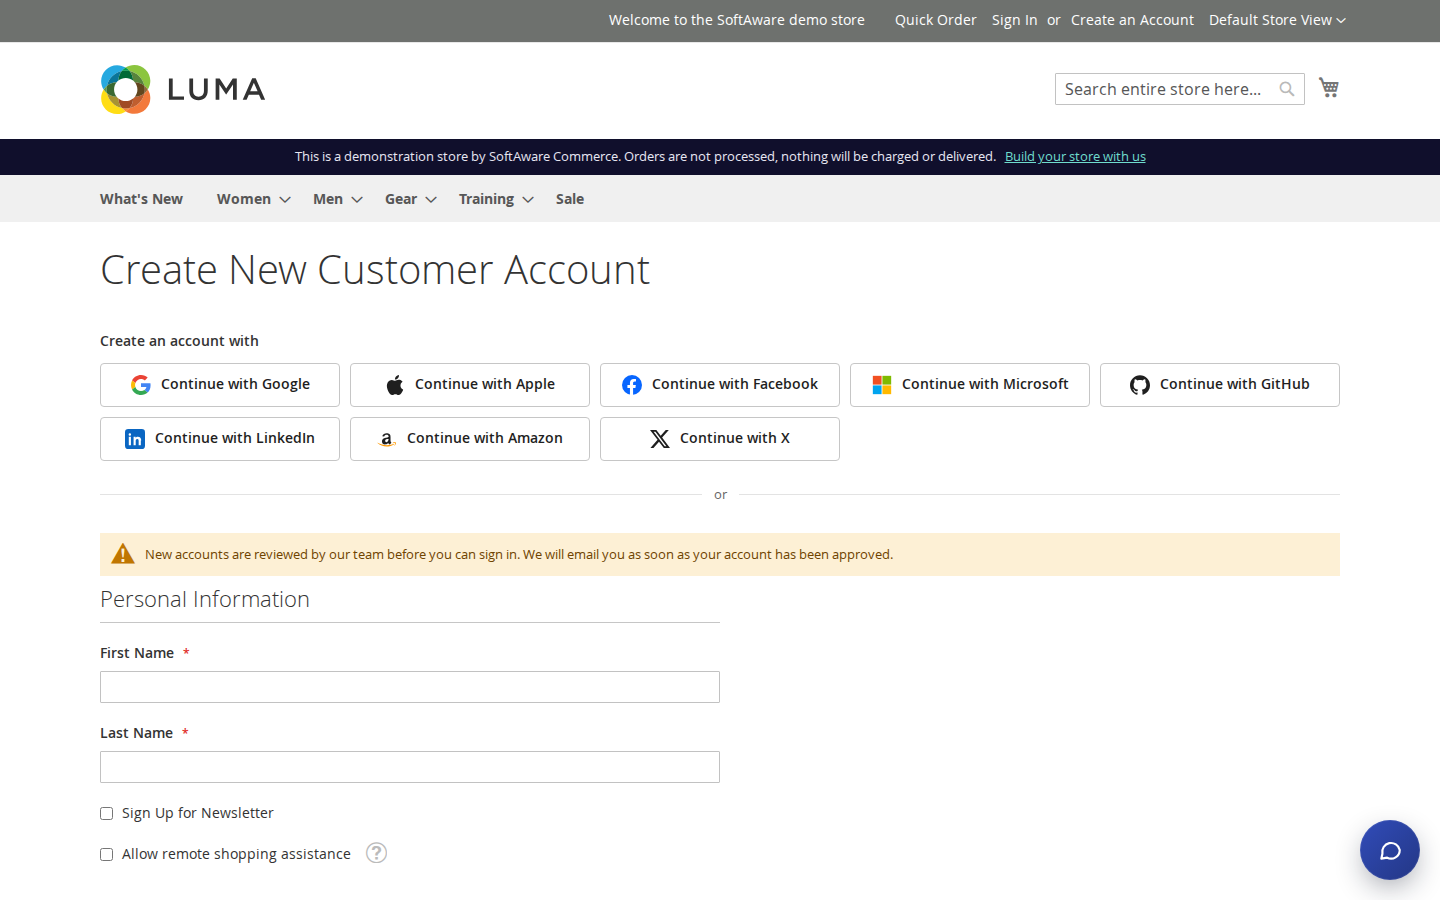
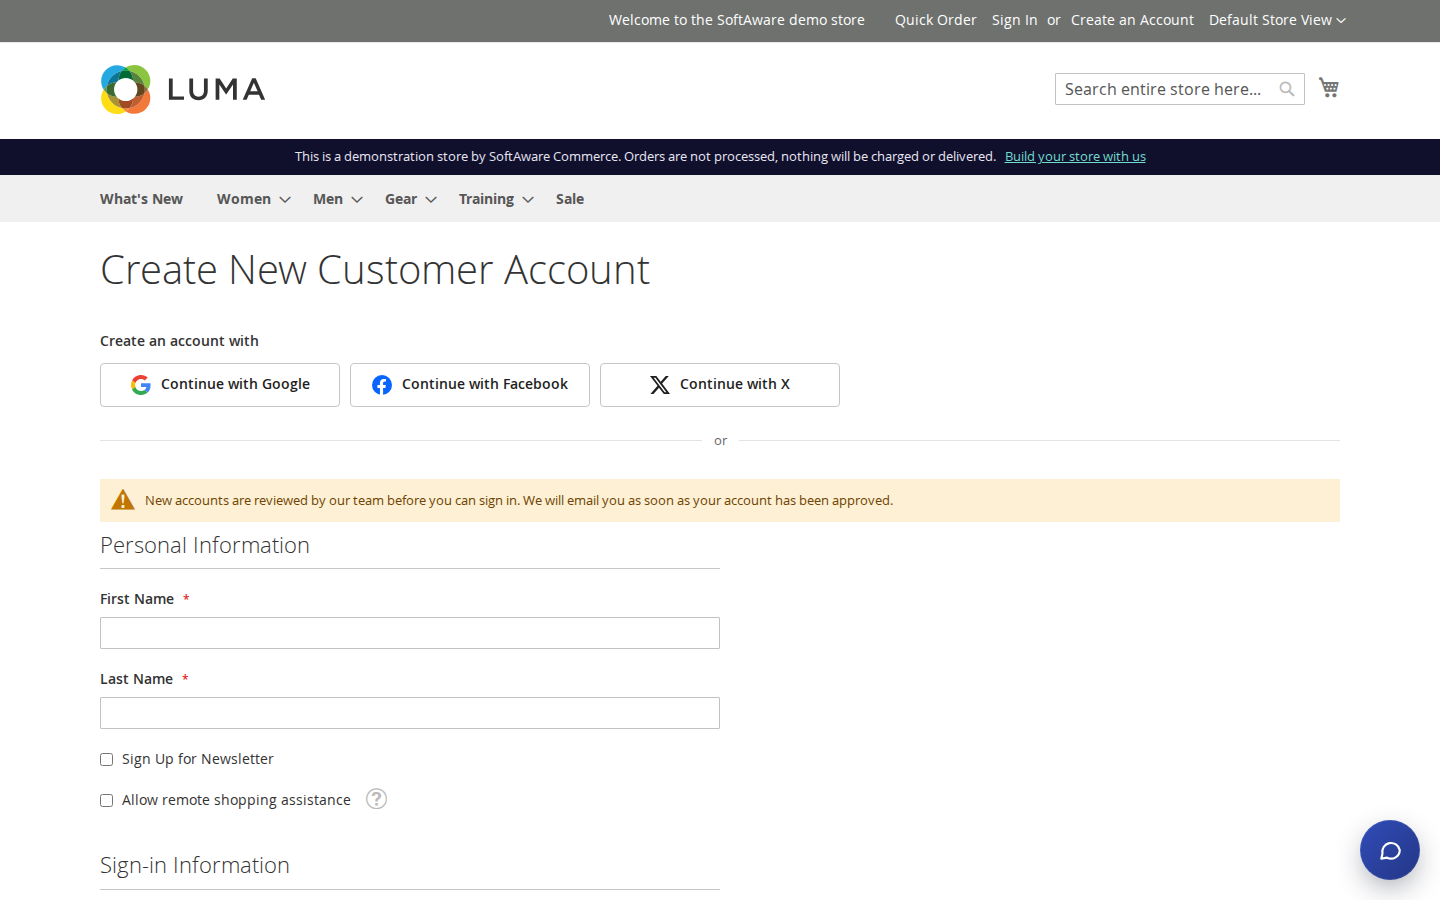
README, CHANGELOG, user guide, FAQ and screenshots for 1.3.0

diff --git a/README.md b/README.md
@@ -1,8 +1,8 @@
 # Softaware Social Login for Magento 2
 
-Lets customers sign in and register with **Google, Apple, Facebook, Microsoft, GitHub, LinkedIn, Amazon and X**.
-OAuth 2.0 and OpenID Connect are implemented directly on Magento's HTTP client and PHP's OpenSSL extension;
-no provider SDKs or JWT libraries are installed. Works with Luma-based themes and Hyvä.
+Lets customers sign in and register with **Google, Facebook and X (Twitter)**. OAuth 2.0 and OpenID Connect are
+implemented directly on Magento's HTTP client and PHP's OpenSSL extension; no provider SDKs or JWT libraries are
+installed. Works with Luma-based themes and Hyvä.
 
 Package `softaware/module-social-login`, module `Softaware_SocialLogin`.
 
@@ -18,33 +18,29 @@ Package `softaware/module-social-login`, module `Softaware_SocialLogin`.
 
 ## Features
 
-- **Providers**: Google (OpenID Connect + PKCE), Sign in with Apple (client secret JWT from the .p8 key,
-  `response_mode=form_post`), Facebook (Graph API with `appsecret_proof`), Microsoft Entra ID (v2.0, `common`
-  tenant by default, PKCE), GitHub (verified email from `/user/emails`), LinkedIn (OpenID Connect), Amazon
-  (Login with Amazon, PKCE), X / Twitter (OAuth 2.0 with PKCE). Each: enable, client ID, secret (stored
-  encrypted), button label, sort order. The exact callback URL for the selected store view is shown under each
-  provider in the configuration.
+- **Providers**: Google (OpenID Connect + PKCE), Facebook (Graph API with `appsecret_proof`), X / Twitter (OAuth 2.0
+  with PKCE). Each: enable, client ID, secret (stored encrypted), button label, sort order. The exact callback URL
+  for the selected store view is shown under each provider in the configuration.
 - **Where**: sign-in page, create-account page, Luma authentication popup ("Checkout using your account"), the
   "Sign In" link on the checkout page, the checkout email step (optional), Hyvä authentication popup, CMS widget
   **Softaware Social Login Buttons**, and a layout block (`Softaware\SocialLogin\Block\Buttons`).
 - **Look**: icon and text, or icon only; light or dark. Sign-in in a **popup window** or a **full-page redirect**.
 - **Security**
   - `state` (random, single use, stored server-side, bound to the browser by a cookie, 15-minute lifetime),
-    `nonce` (OIDC) and PKCE S256 (Google, Microsoft, GitHub, Amazon, X).
-  - ID tokens of Google, Microsoft, Apple and LinkedIn are validated against the provider's JWKS (RS256/ES256,
-    `alg` whitelist, issuer, audience, expiry, nonce). Keys are cached and refreshed on rotation.
-  - Email addresses are only treated as verified when the provider says so (`email_verified`, GitHub verified
-    flag, X `confirmed_email`, Microsoft only for personal accounts or `xms_edov`). Amazon and typed-in addresses
-    never count as verified.
+    `nonce` (OIDC) and PKCE S256 (Google, X).
+  - Google ID tokens are validated against Google's JWKS (RS256/ES256, `alg` whitelist, issuer, audience, expiry,
+    nonce). Keys are cached and refreshed on rotation.
+  - Email addresses are only treated as verified when the provider says so (`email_verified`, X
+    `confirmed_email`). Typed-in addresses never count as verified.
   - Signing in to an EXISTING account by email (without its password) additionally requires that the provider
-    is responsible for the address: Google only for Gmail and Google Workspace addresses (as Google advises),
-    Apple, Microsoft (as above), GitHub, LinkedIn, X. Facebook addresses always ask for the password once.
+    is responsible for the address: Google only for Gmail and Google Workspace addresses (as Google advises), X
+    for its confirmed addresses. Facebook addresses always ask for the password once.
   - New accounts from an unverified address must be confirmed with Magento's confirmation email before they can
     be used, even when the store does not require confirmation (protects against "pre-account hijacking").
   - The session id is regenerated on every sign-in (Magento's `setCustomerDataAsLoggedIn()`).
   - Callback is CSRF-safe through the state; all customer-side state changes use POST with form key.
-  - Return URLs are restricted to this installation and parsed strictly (no open redirect). Secrets, codes and tokens are never
-    logged.
+  - Return URLs are restricted to this installation and parsed strictly (no open redirect). Secrets, codes and
+    tokens are never logged.
 - **Account matching**
   - An identity that is already linked signs in its customer.
   - An existing customer with the same, **trusted** email (see Security) is linked automatically, or
@@ -55,8 +51,8 @@ Package `softaware/module-social-login`, module `Softaware_SocialLogin`.
   - **Create New Accounts** can be switched off: then only existing customers can sign in with a provider.
   - Works with Softaware Customer Approval: social sign-ups get an approval status like any registration, and
     pending or rejected customers are not signed in (they see the approval message).
-  - When the provider returns no email (X; Apple when the customer hides it on a later sign-in) or no name, the
-    customer completes a short form.
+  - When the provider returns no email (X without the email permission) or no name, the customer completes a
+    short form.
 - **My Account > Connected Accounts**: see linked providers, connect another, disconnect. Disconnecting is refused
   when it would leave the customer without a way to sign in (no password and no other provider).
 - **Admin**: Softaware > Social Login > Linked Accounts (grid with filters, remove links); "Social Login" tab on
@@ -66,6 +62,7 @@ Package `softaware/module-social-login`, module `Softaware_SocialLogin`.
 - **Test provider** (development only): a local identity provider to try the whole flow without provider apps.
   Disabled by default, works only in developer mode, and its addresses are never treated as verified (new
   accounts made with it therefore need the confirmation email).
+- **More providers**: works with **Social Login Pro** (Apple, Microsoft, LinkedIn, Amazon and GitHub), see below.
 
 ## Configuration
 
@@ -77,25 +74,18 @@ Softaware > Social Login > Configuration.
 | General | Enabled, sign-in window (redirect/popup), button style, button colour |
 | Where to Show the Buttons | Sign-in page, create-account page, authentication popup and checkout sign-in, checkout email step |
 | Accounts | Create new accounts (yes/no), existing account with the same email (link automatically / ask for password), welcome email, customer group, after sign-in (stay on page / My Account / custom URL) |
-| Google … X | Enabled (with the callback URL), client ID, client secret, button label, sort order; Apple: Services ID, Team ID, Key ID, private key; Microsoft: tenant; Facebook: Graph API version; X: request email |
+| Google, Facebook, X | Enabled (with the callback URL), client ID, client secret, button label, sort order; Facebook: Graph API version; X: request email |
 | Test Provider | Enabled (developer mode only) |
 
 Scope: default, website and store view (credentials can differ per domain). Provider codes (config group and
-callback URL segment): `google`, `apple`, `facebook`, `microsoft`, `github`, `linkedin`, `amazon`, `twitter` (X), `test`.
+callback URL segment): `google`, `facebook`, `twitter` (X), `test`.
 
 ### Provider setup in short
 
 Register the callback URL shown in the configuration exactly as displayed (one per store view URL):
 
 - **Google**: Google Cloud Console > APIs & Services > Credentials > OAuth client ID (Web application).
-- **Apple**: Services ID with "Sign in with Apple" (domain + return URL), a key with "Sign in with Apple";
-  enter Services ID, Team ID, Key ID and paste the .p8 file.
 - **Facebook**: Facebook Login product, "Valid OAuth Redirect URIs", `email` permission.
-- **Microsoft**: App registration for "any organisational directory and personal Microsoft accounts", Web
-  redirect URI, client secret.
-- **GitHub**: OAuth App, "Authorization callback URL".
-- **LinkedIn**: product "Sign In with LinkedIn using OpenID Connect", authorised redirect URL.
-- **Amazon**: Login with Amazon security profile, "Allowed Return URLs".
 - **X**: User authentication settings, OAuth 2.0, type Web App, callback URL. Switch on "Request email" only if
   the app has the email permission.
 
@@ -115,11 +105,27 @@ Content > Widgets > Add Widget > "Softaware Social Login Buttons" (heading, styl
 The block picks the Luma or Hyvä template automatically and hides itself for signed-in customers in the
 browser, so it can be used on full-page-cached pages.
 
-### Adding a provider
+## Social Login Pro
 
-Implement `Softaware\SocialLogin\Model\Provider\ProviderInterface` (or extend `AbstractProvider` /
-`AbstractOidcProvider`) and add it to the `providers` argument of `Softaware\SocialLogin\Model\Provider\ProviderPool`
-in `di.xml`. Its configuration lives in `softaware_sociallogin/<code>/...`.
+The add-on **Social Login Pro** (`softaware/module-social-login-pro`) adds Sign in with Apple, Microsoft (Entra ID),
+LinkedIn, Amazon and GitHub. Its providers appear in the same configuration section, the same button rows, the
+Connected Accounts page and the admin tools, and use the same settings described here.
+
+## Adding a provider (developers)
+
+The module is built to be extended by other modules:
+
+| Extension point | How |
+| --- | --- |
+| Provider | Implement `Softaware\SocialLogin\Model\Provider\ProviderInterface` (or extend `AbstractProvider` / `AbstractOidcProvider`) and add it to the `providers` argument of `Softaware\SocialLogin\Model\Provider\ProviderPool` in your `di.xml`. Providers that need more services declare their own constructor arguments and pass `ProviderContext` on to the parent. |
+| Settings | Add a group with the provider code as id to section `softaware_sociallogin` in your `etc/adminhtml/system.xml`; values are read from `softaware_sociallogin/<code>/...` (`enabled`, `client_id`, `client_secret`, `label`, `sort_order`). |
+| Callback URL in the admin | A virtual type of `Softaware\SocialLogin\Model\Config\Comment\CallbackUrl` with the arguments `providerCode` and `hint`, used as the comment model of the group's `enabled` field. |
+| Button icon | Add an inline SVG (as a class constant) to the `icons` argument of `Softaware\SocialLogin\ViewModel\ProviderIcons`. Codes without an icon get a neutral one. |
+| Self-test | Implement `Softaware\SocialLogin\Model\SelfTest\CheckInterface` and add it to the `checks` argument of `Softaware\SocialLogin\Console\Command\SelfTestCommand`. |
+
+Links whose provider is not installed (for example after removing a module) are kept and handled safely: the admin
+grid, the customer tab and Connected Accounts show them with their provider code, they can always be removed, and
+they do not count as a way to sign in when a customer disconnects another provider.
 
 ## CLI
 
@@ -129,11 +135,11 @@ bin/magento softaware:social-login:unlink <link_id>
 bin/magento softaware:social-login:self-test [--accounts]
 ```
 
-`self-test` checks PKCE (RFC 7636 test vector), ID token validation incl. tampering, wrong issuer/audience/nonce,
-expired tokens and `alg` confusion, the Apple ES256 client secret, the state store, return URL (open redirect)
-handling, the email trust rules and, with `--accounts`, the
-account matching rules using temporary "Test SocialLogin" customers that are deleted afterwards. It makes no
-calls to providers.
+`self-test` lists the registered providers and checks PKCE (RFC 7636 test vector), ID token validation (RS256 and
+ES256) incl. tampering, wrong issuer/audience/nonce, expired tokens and `alg` confusion, the state store, return URL
+(open redirect) handling, the email trust rules and, with `--accounts`, the account matching rules using temporary
+"Test SocialLogin" customers that are deleted afterwards. Installed add-ons add their own checks. It makes no calls
+to providers.
 
 ## Compatibility
 
@@ -148,12 +154,8 @@ calls to providers.
   are covered by the self-test and the full flow by the test provider.
 - Facebook only returns confirmed email addresses, so new accounts need no confirmation; an existing account with
   the same address is only connected after its password is entered once (Facebook gives no verification flag).
-  Google addresses outside Gmail/Workspace are handled the same way. Amazon does not say whether an address is
-  verified, so Amazon addresses are treated as unverified (new accounts get the confirmation email, existing
-  customers confirm with their password once).
+  Google addresses outside Gmail/Workspace are handled the same way.
 - One identity per provider per customer.
-- Microsoft: given/family name are only returned when configured as optional claims; otherwise the display
-  name is split.
 - Callback URLs are per store view URL; with store codes in URLs, register one per store view.
 - Customers created through social sign-in have no password until they set one with "Forgot Your Password?".
 

diff --git a/docs/user-guide.md b/docs/user-guide.md
@@ -1,7 +1,7 @@
 # Social Login for Magento 2 — User Guide
 
-Let customers sign in and register with **Google, Apple, Facebook, Microsoft, GitHub, LinkedIn, Amazon and X**
-in one click. This guide covers installation, configuration, provider setup and day-to-day use.
+Let customers sign in and register with **Google, Facebook and X (Twitter)** in one click. This guide covers
+installation, configuration, provider setup and day-to-day use.
 
 - Demo (Luma): https://demo.softawarecommerce.com/customer/account/login/
 - Demo (Hyvä): https://demo.softawarecommerce.com/hyva/customer/account/login/
@@ -103,19 +103,14 @@ register one callback URL per store view URL.
 | Provider | Where to create the app | What to enter in Magento |
 | --- | --- | --- |
 | Google | Google Cloud Console > APIs & Services > Credentials > Create OAuth client ID (Web application); add the callback under "Authorised redirect URIs". | Client ID, Client Secret |
-| Apple | Apple Developer > Certificates, Identifiers & Profiles: a Services ID with "Sign in with Apple" (your domain + the callback as Return URL) and a key with "Sign in with Apple". | Services ID, Team ID, Key ID, contents of the .p8 key file |
 | Facebook | Meta for Developers: add the Facebook Login product, enter the callback under "Valid OAuth Redirect URIs", request the `email` permission. | App ID, App Secret, Graph API version |
-| Microsoft | Microsoft Entra admin centre > App registrations: "Accounts in any organisational directory and personal Microsoft accounts", Web redirect URI, a client secret. | Application (client) ID, Client Secret, Tenant (default `common`) |
-| GitHub | GitHub > Settings > Developer settings > OAuth Apps; "Authorization callback URL". | Client ID, Client Secret |
-| LinkedIn | LinkedIn Developers: add the product "Sign In with LinkedIn using OpenID Connect", add the authorised redirect URL. | Client ID, Client Secret |
-| Amazon | Login with Amazon: a security profile, callback under "Allowed Return URLs". | Client ID, Client Secret |
 | X | X Developer Portal > User authentication settings: OAuth 2.0, type "Web App", callback URL. | Client ID, Client Secret; "Request Email Address" only if the app has the email permission |
 
 ## 6. What your customers see
 
 **Signing in or registering.** The customer clicks a button, approves at the provider and is signed in. A new
-customer gets an account with the name and email from the provider. If the provider gives no email (X, or Apple
-when the customer hides it on a later sign-in) or no name, the customer fills in a short form once.
+customer gets an account with the name and email from the provider. If the provider gives no email (X without the
+email permission) or no name, the customer fills in a short form once.
 
 **Existing customers.** If a customer with the same email already exists, the identity is linked to that account
 (automatically or after the password, see *Accounts*). From then on the provider signs them in directly.
@@ -161,6 +156,9 @@ so it is safe on full-page-cached pages.
 - **Customers > edit customer > Social Login** tab: the customer's links.
 - **ACL**: separate permissions for viewing links, removing links and the configuration.
 
+Links of a provider that is not installed (for example after removing an add-on) stay visible with their provider
+code and can be removed; customers can remove them under Connected Accounts too.
+
 ## 9. Command line
 
 ```bash
@@ -169,8 +167,9 @@ bin/magento softaware:social-login:unlink <link_id>
 bin/magento softaware:social-login:self-test [--accounts]
 ```
 
-`self-test` checks the security pieces (PKCE, ID token validation including tampered, expired and wrong-audience
-tokens, the Apple client secret, return URL handling, email trust rules) without calling any provider. With
+`self-test` lists the registered providers and checks the security pieces (PKCE, ID token validation including
+tampered, expired and wrong-audience tokens, return URL handling, email trust rules) without calling any provider.
+Installed add-ons such as Social Login Pro add their own checks. With
 `--accounts` it also checks the account-matching rules using temporary test customers that are deleted afterwards.
 
 ## 10. Privacy (GDPR)
@@ -191,12 +190,21 @@ tokens, the Apple client secret, return URL handling, email trust rules) without
 | Customer is asked for the password | Expected when the provider has not verified the address or is not responsible for it (see *Accounts*). It happens once; afterwards the provider signs them in directly. |
 | Sign-in fails | See `var/log/softaware_sociallogin.log` for the technical reason (no secrets or tokens are logged). |
 
-## 12. Uninstall
+## 12. More providers: Social Login Pro
+
+The add-on **Social Login Pro** (`softaware/module-social-login-pro`) adds Sign in with Apple, Microsoft (Entra
+ID), LinkedIn, Amazon and GitHub. After installing it (`composer require softaware/module-social-login-pro`, then
+the `bin/magento` commands from section 2), the new providers appear as groups in the same configuration section and
+use all the settings in this guide. Its own user guide describes the provider setup.
+
+## 13. Uninstall
 
 ```bash
 bin/magento module:disable Softaware_SocialLogin
 composer remove softaware/module-social-login
 bin/magento setup:upgrade
 ```
+
+If Social Login Pro is installed, remove it first (`composer remove softaware/module-social-login-pro`).
 
 Customers created through social sign-in keep their accounts; they can set a password with "Forgot Your Password?".

diff --git a/CHANGELOG.md b/CHANGELOG.md
@@ -1,5 +1,25 @@
 # Changelog
 
+## 1.3.0 (2026-10-07)
+
+### Added
+
+- Works with **Social Login Pro** (Apple, Microsoft, LinkedIn, Amazon and GitHub): the add-on's providers appear in
+  the same configuration section, button rows, Connected Accounts page, admin grid and self-test.
+- Extension points for modules that add providers: button icons per provider code (`icons` argument of
+  `ViewModel\ProviderIcons`), self-test checks (`Model\SelfTest\CheckInterface`, `checks` argument of the
+  self-test command), and the callback URL comment for the admin (documented in the README together with the
+  provider pool and the settings).
+- Links of providers that are not installed are handled safely: the Linked Accounts grid (column and filter), the
+  customer tab and Connected Accounts show them with their provider code, customers and admins can remove them, and
+  they do not count as a way to sign in when the customer disconnects another provider.
+- Self-test: lists the registered providers; ES256 ID token checks (valid token, tampered payload, algorithm
+  whitelist); a rejected issuer for issuer patterns; the handling of links whose provider is not installed.
+
+### Documentation
+
+- README, user guide and FAQ: provider extension points for developers, Social Login Pro; new screenshots.
+
 ## 1.2.1 (2026-10-07)
 
 ### Documentation
@@ -23,13 +43,13 @@
   sent the customer to another site after signing in. Return URLs are now parsed strictly (no backslashes,
   control characters, user info or empty hosts) before the host check.
 - Pre-account hijacking: an account created from an email address the provider has not verified (typed in by
-  the shopper, Amazon, the test provider) now always needs Magento's email confirmation before it can be used,
+  the shopper, the test provider) now always needs Magento's email confirmation before it can be used,
   whether or not the store requires confirmation. Before, anybody could create an account in someone else's name
   through a provider without email (e.g. X) and keep access through the linked provider after the real owner
   had reset the password.
 - Linking to an existing account by email is limited to providers that are responsible for the address: Google
-  only for Gmail and Google Workspace addresses (Google's own guidance), Facebook no longer (the Graph API has no
-  verification flag). Everything else asks for the account password once, as before for unverified addresses.
+  only for Gmail and Google Workspace addresses (Google's own guidance); Facebook addresses ask for the password
+  once (the Graph API has no verification flag). Everything else asks for the account password once, as before for unverified addresses.
   The same rule applies when an unconfirmed account is confirmed through a provider.
 
 ### Added
@@ -53,11 +73,10 @@
 
 First release.
 
-- Sign-in and registration with Google, Sign in with Apple, Facebook, Microsoft (Entra ID), GitHub, LinkedIn,
-  Amazon and X (Twitter), implemented directly on OAuth 2.0 / OpenID Connect (no provider SDKs).
-- State, nonce and PKCE (S256) where supported; ID token signature validation via JWKS (RS256/ES256) for Google,
-  Microsoft, Apple and LinkedIn; browser-bound, single-use state stored server-side.
-- Apple: ES256 client secret from the .p8 key, `form_post` callback with session restore.
+- Sign-in and registration with Google, Facebook and X (Twitter), implemented directly on OAuth 2.0 / OpenID
+  Connect (no provider SDKs).
+- State, nonce and PKCE (S256) where supported; ID token signature validation via JWKS (RS256/ES256) for Google;
+  browser-bound, single-use state stored server-side.
 - Buttons on the sign-in and create-account pages, the Luma authentication popup, the checkout sign-in and
   (optional) checkout email step, the Hyvä authentication popup, a CMS widget and a layout block. Icon+text or
   icon-only, light or dark, popup or full-page redirect.

diff --git a/docs/faq.md b/docs/faq.md
@@ -1,8 +1,11 @@
 # Social Login for Magento 2 — FAQ
 
 **Which providers are supported?**
-Google, Apple, Facebook, Microsoft (personal and work/school accounts), GitHub, LinkedIn, Amazon and X (Twitter).
-Each one can be switched on separately, per website or store view.
+Google, Facebook and X (Twitter). Each one can be switched on separately, per website or store view.
+
+**Can I offer Apple, Microsoft, LinkedIn, Amazon or GitHub as well?**
+Yes, with the add-on **Social Login Pro**. It adds these five providers to the same configuration section, buttons,
+Connected Accounts page and admin tools; everything described here applies to them too.
 
 **Does it work with Hyvä?**
 Yes. Hyvä templates are included (Hyvä 1.3+, tested with 1.5). On the Hyvä checkout the Luma checkout fallback is
@@ -30,8 +33,7 @@ Yes, with Softaware Customer Approval: social sign-ups get an approval status li
 pending or rejected customers are not signed in.
 
 **What if the provider does not give an email address?**
-X never returns one unless your app has the email permission, and Apple can hide it. The customer then enters an
-email address once; an account created from a typed-in address must be confirmed by email before it can be used.
+X never returns one unless your app has the email permission. The customer then enters an email address once; an account created from a typed-in address must be confirmed by email before it can be used.
 
 **Can customers remove a connection?**
 Yes, under **My Account > Connected Accounts**. The module refuses to remove the last way to sign in (no password
@@ -52,8 +54,12 @@ Yes. All settings, including the credentials, can be set per website and store v
 store view URL at the provider.
 
 **Can I add another provider?**
-Yes, developers can implement `ProviderInterface` (or extend `AbstractOidcProvider`) and register it in `di.xml`.
-See the README.
+Yes, developers can implement `ProviderInterface` (or extend `AbstractOidcProvider`) and register it in `di.xml`;
+icons, settings and self-test checks have extension points too. See the README.
+
+**What happens to links of a provider that is not installed (for example after removing an add-on)?**
+They are kept and shown with their provider code in the admin and under Connected Accounts, where they can be
+removed. They are not counted as a way to sign in, so customers are never left without one.
 
 **Which Magento and PHP versions are supported?**
 Magento Open Source and Adobe Commerce 2.4.7 – 2.4.9, PHP 8.2 – 8.5.
